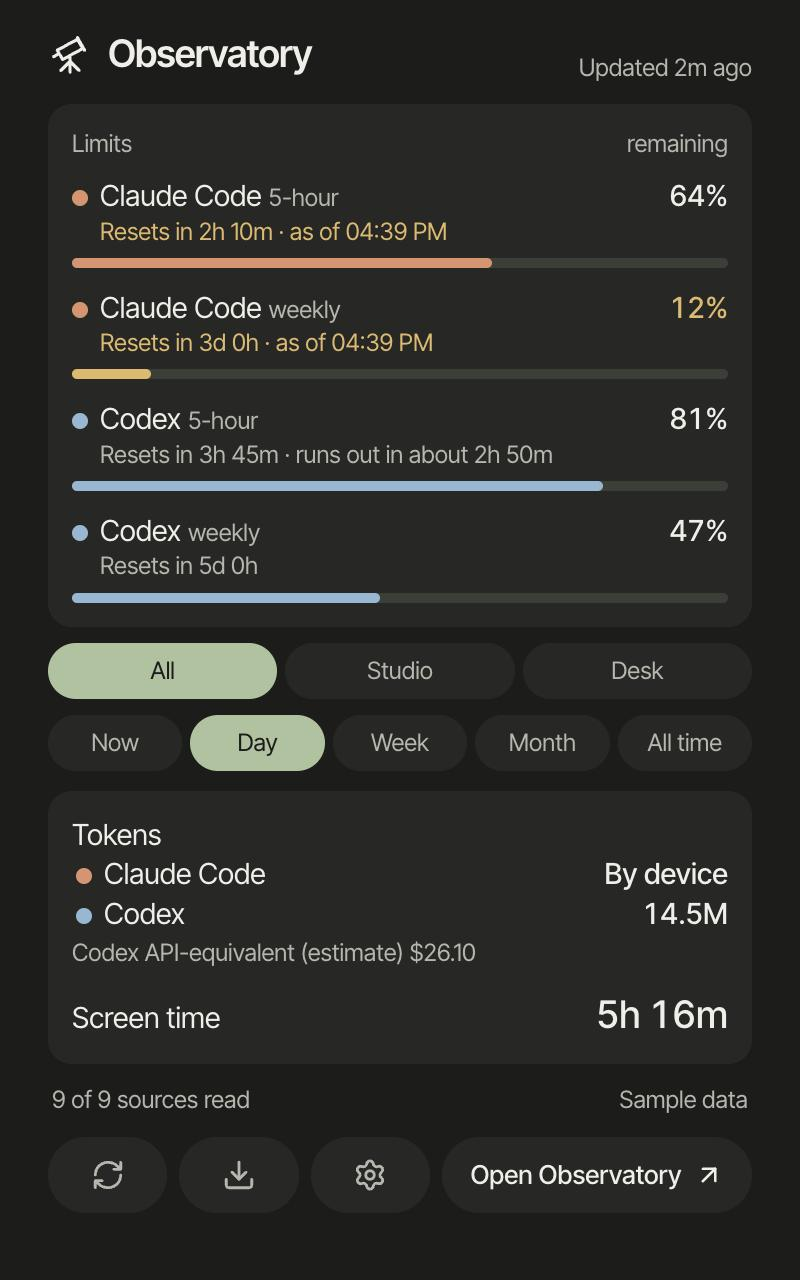
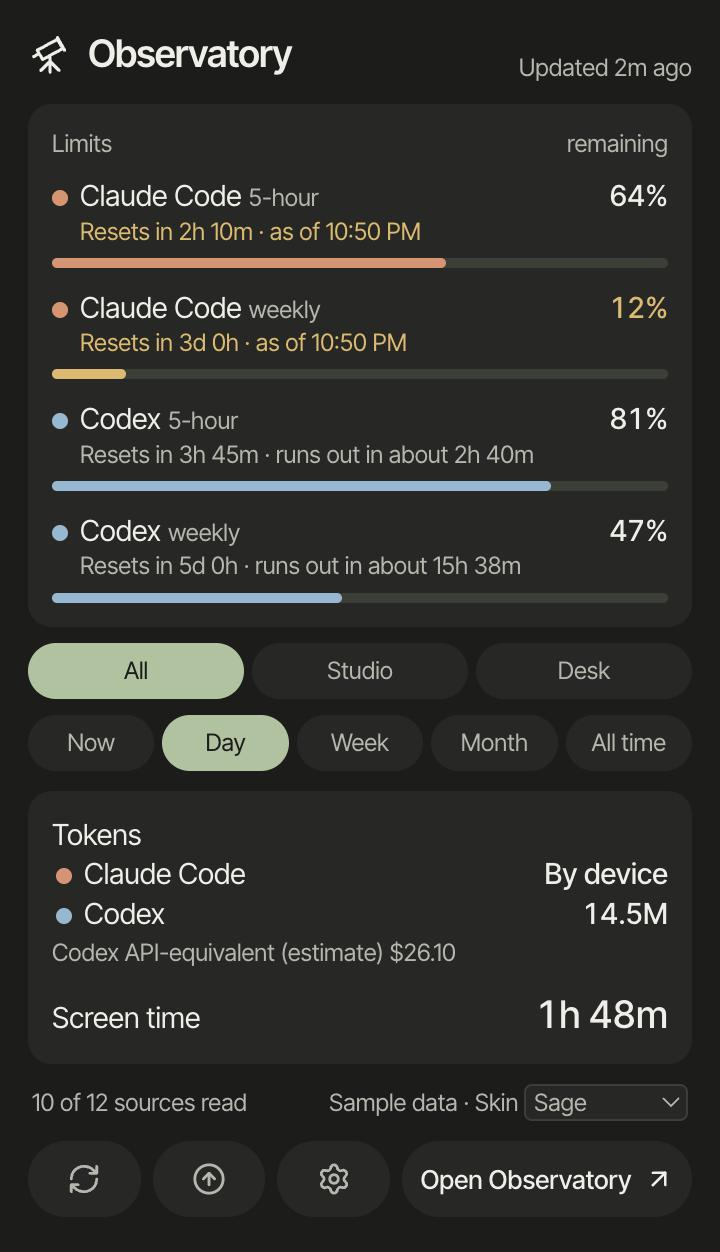
README images from installed build 43 (issue 105) (#233)
* README images from installed build 43 (issue 105)

* README alt text says Claude Code tokens are listed by device

diff --git a/README.md b/README.md
@@ -14,11 +14,11 @@
 </div>
 
 <p align="center">
-  <img src="docs/images/panel-spike-dark.jpg" width="320" alt="The Observatory panel in dark appearance, showing limits for Claude Code and Codex, device and period filters, token totals and screen time, with sample data">
+  <img src="docs/images/panel-spike-dark.jpg" width="320" alt="The Observatory panel in dark appearance with sample data, showing limits for Claude Code and Codex, device and period filters, a Codex token total with Claude Code tokens listed by device, and screen time">
   <img src="docs/images/panel-spike-light.jpg" width="320" alt="The same panel in light appearance with sample data">
 </p>
 
-<p align="center">The panel with sample data. These images were taken during development and differ from the release in small details.</p>
+<p align="center">The panel with sample data.</p>
 
 ## What it shows
 
